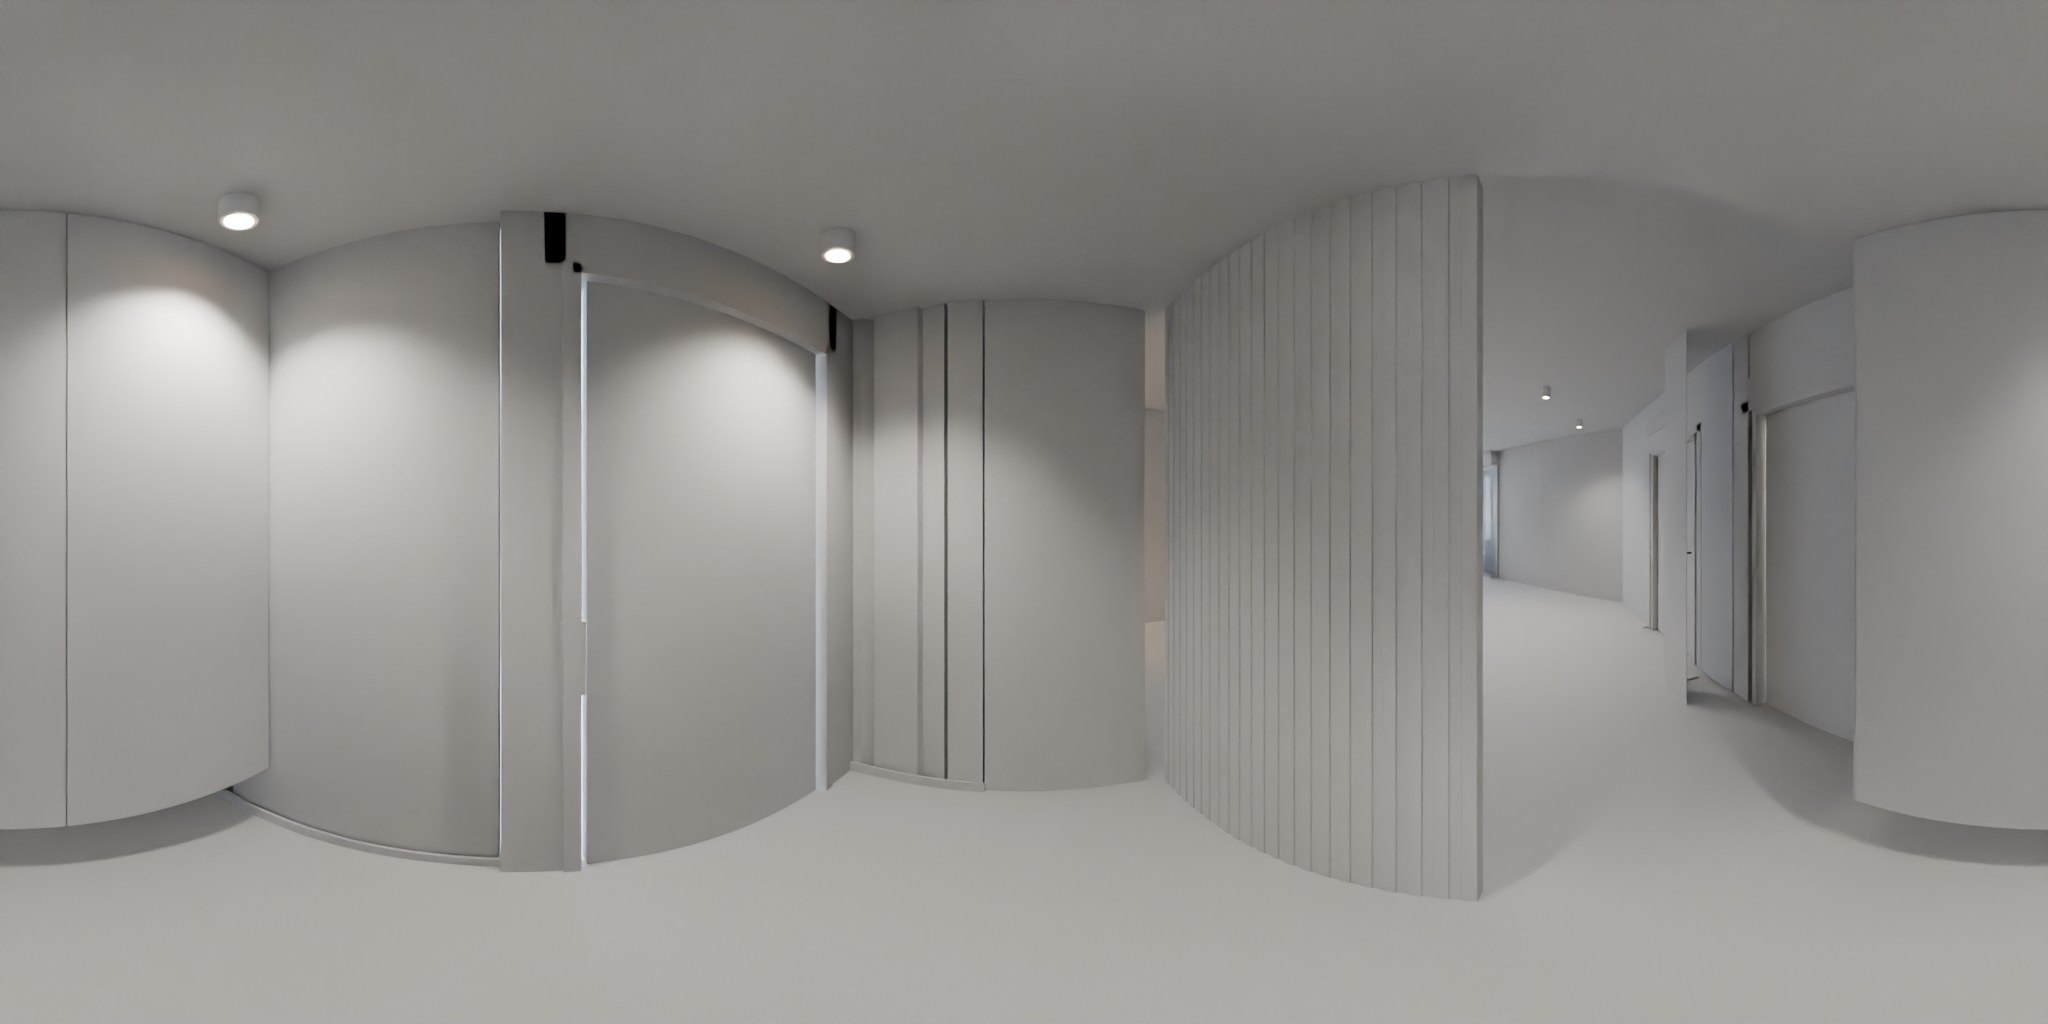
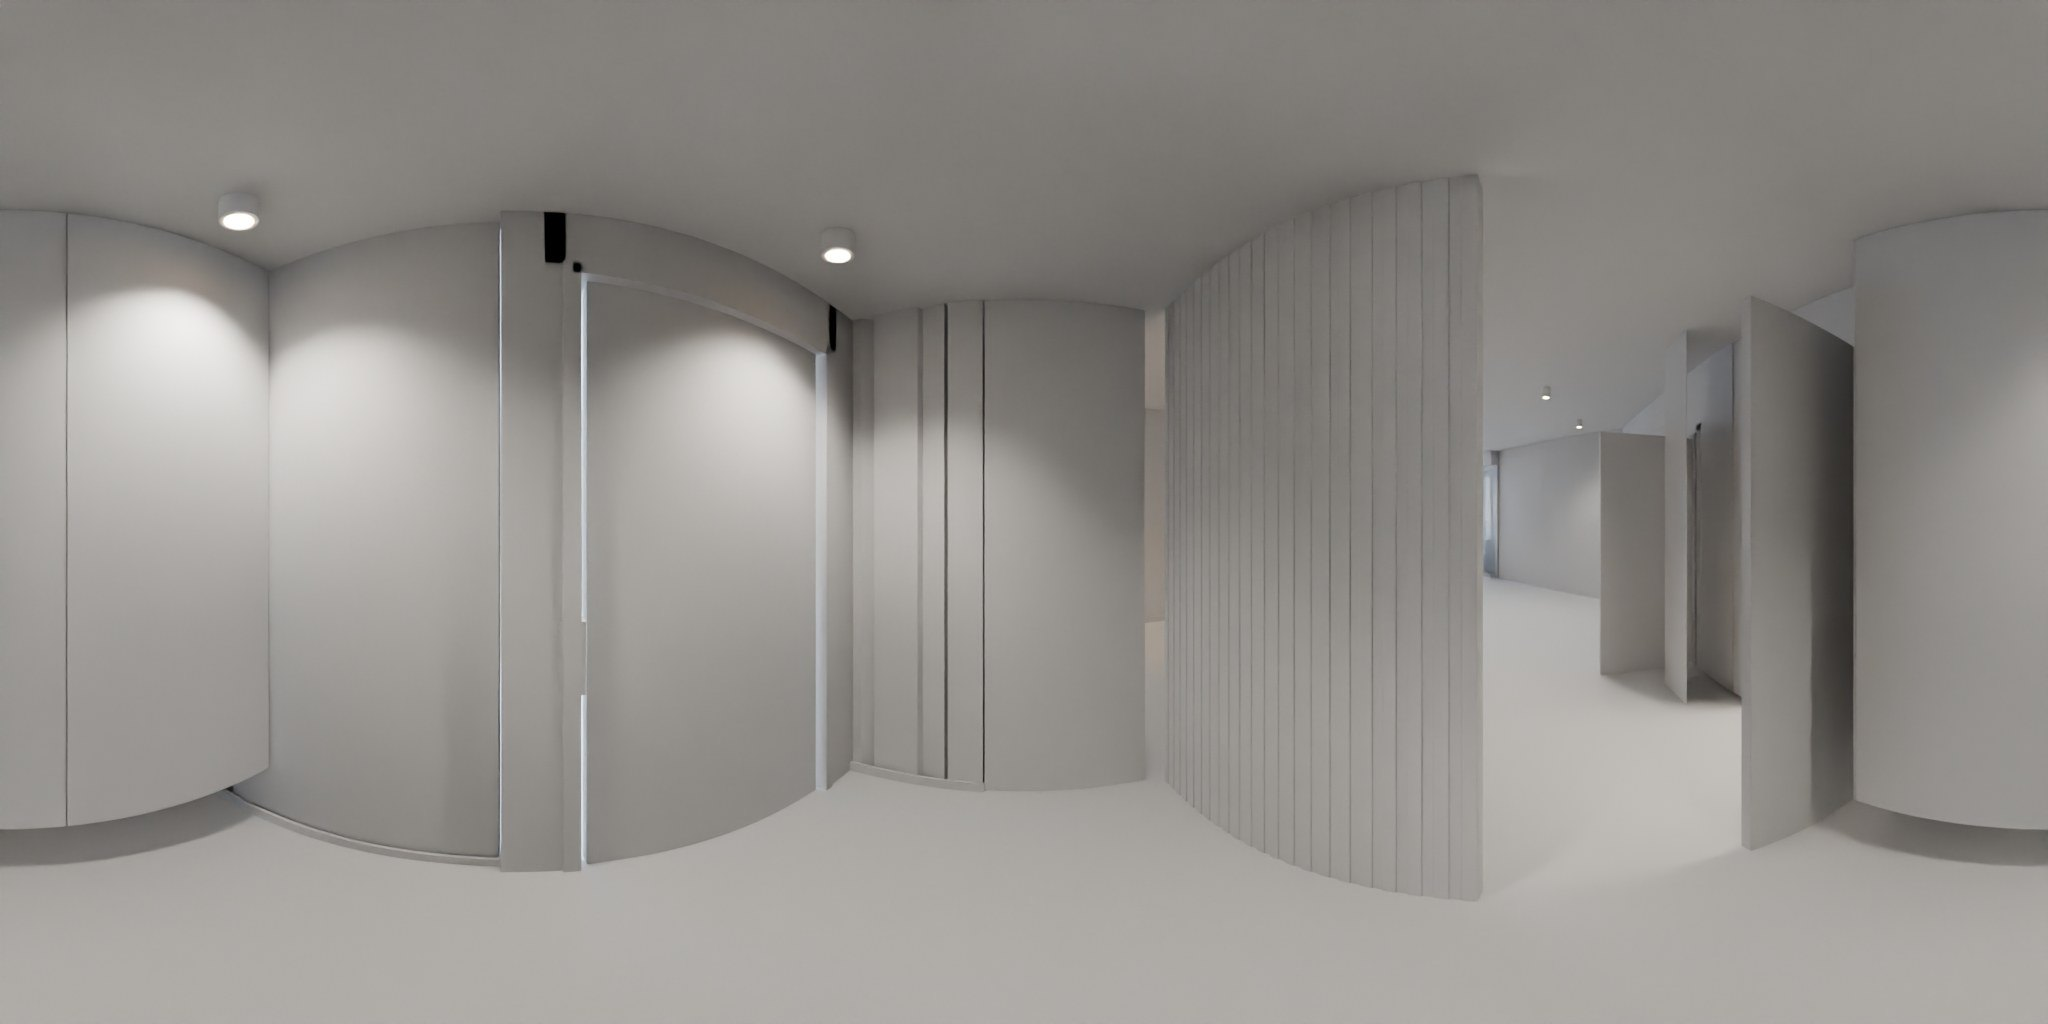
Pinea bryły v9b: otwarte drzwi, przedpokój, kropki z tras po podłodze
Claude-Session: https://claude.ai/code/session_01E8BAvgCfYVfSp1SGc6CZ9J

Changed region(s): [[0.7188, 0.3125, 0.9062, 0.8438], [0.8125, 0.1875, 0.8438, 0.25]]

diff --git a/pinea-bryly/index.html b/pinea-bryly/index.html
@@ -85,7 +85,7 @@ body{margin:0;background:var(--stage);color:var(--ink);font-family:var(--f-body)
 <div id="fade"></div>
 <script src="https://cdnjs.cloudflare.com/ajax/libs/three.js/r128/three.min.js"></script>
 <script>
-const PU={"a": [{"id": "p01", "n": 1, "n5": 1, "name": "Salon", "floor": 0, "xy": [46.85, 29.89], "hs": [{"to": "p02", "u": 0.0061, "label": "Jadalnia i kuchnia", "v": -0.546}, {"to": "p03", "u": 0.9077, "label": "Hol", "v": -0.41}, {"to": "p04", "u": 0.8138, "label": "Sypialnia", "v": -0.513}, {"to": "p05", "u": 0.8874, "label": "Łazienka", "v": -0.362}, {"to": "p06", "u": 0.42, "label": "Balkon (salon)", "v": -0.415}], "start": 0.2957}, {"id": "p02", "n": 2, "n5": 2, "name": "Jadalnia i kuchnia", "floor": 0, "xy": [18.92, 29.89], "hs": [{"to": "p01", "u": 0.5122, "label": "Salon", "v": -0.545}, {"to": "p03", "u": 0.7588, "label": "Hol", "v": -0.788}, {"to": "p05", "u": 0.7425, "label": "Łazienka", "v": -0.557}, {"to": "p04", "u": 0.6434, "label": "Sypialnia", "v": -0.437}], "start": 0.5283}, {"id": "p03", "n": 3, "n5": 3, "name": "Hol", "floor": 0, "xy": [5.41, 43.68], "hs": [{"to": "p01", "u": 0.5234, "label": "Salon", "v": -0.521}, {"to": "p02", "u": 0.4018, "label": "Jadalnia i kuchnia", "v": -0.748}, {"to": "p05", "u": 0.6106, "label": "Łazienka", "v": -0.674}, {"to": "p04", "u": 0.5583, "label": "Sypialnia", "v": -0.377}], "start": 0.4726}, {"id": "p04", "n": 4, "n5": 4, "name": "Sypialnia", "floor": 0, "xy": [66.67, 68.97], "hs": [{"to": "p01", "u": 0.0073, "label": "Salon", "v": -0.433}, {"to": "p07", "u": 0.375, "label": "Balkon (sypialnia)", "v": -1.005}], "start": 0.8564}, {"id": "p05", "n": 5, "n5": 5, "name": "Łazienka", "floor": 0, "xy": [19.37, 79.31], "hs": [{"to": "p03", "u": 0.2606, "label": "Hol", "v": -1.35}], "start": 0.8349}, {"id": "p06", "n": 6, "n5": 6, "name": "Balkon (salon)", "floor": 0, "xy": [79.28, 6.9], "hs": [{"to": "p01", "u": 0.9296, "label": "Salon", "v": -0.676}], "start": 0.3894}, {"id": "p07", "n": 7, "n5": 7, "name": "Balkon (sypialnia)", "floor": 0, "xy": [80.9, 54.6], "hs": [{"to": "p04", "u": 0.9121, "label": "Sypialnia", "v": -0.877}], "start": 0.4062}]};
+const PU={"a": [{"id": "p01", "n": 1, "n5": 1, "name": "Salon", "floor": 0, "xy": [46.85, 29.89], "hs": [{"to": "p02", "u": 0.0007, "label": "Jadalnia i kuchnia", "v": -0.741}, {"to": "p08", "u": 0.8888, "label": "Przedpokój", "v": -0.764}, {"to": "p06", "u": 0.3877, "label": "Balkon (salon)", "v": -0.761}, {"to": "p03", "u": 0.8914, "label": "Hol", "v": -0.767}], "start": 0.976}, {"id": "p02", "n": 2, "n5": 2, "name": "Jadalnia i kuchnia", "floor": 0, "xy": [18.92, 29.89], "hs": [{"to": "p01", "u": 0.4993, "label": "Salon", "v": -0.745}, {"to": "p03", "u": 0.8442, "label": "Hol", "v": -0.788}, {"to": "p08", "u": 0.6522, "label": "Przedpokój", "v": -0.783}], "start": 0.5283}, {"id": "p03", "n": 3, "n5": 3, "name": "Hol", "floor": 0, "xy": [9.91, 47.13], "hs": [{"to": "p01", "u": 0.3903, "label": "Salon", "v": -0.766}, {"to": "p02", "u": 0.3427, "label": "Jadalnia i kuchnia", "v": -0.787}, {"to": "p08", "u": 0.5263, "label": "Przedpokój", "v": -0.785}], "start": 0.5055}, {"id": "p04", "n": 4, "n5": 4, "name": "Sypialnia", "floor": 0, "xy": [66.67, 68.97], "hs": [{"to": "p08", "u": 0.0225, "label": "Przedpokój", "v": -0.768}, {"to": "p07", "u": 0.3875, "label": "Balkon (sypialnia)", "v": -0.766}], "start": 0.8564}, {"id": "p05", "n": 5, "n5": 5, "name": "Łazienka", "floor": 0, "xy": [19.37, 79.31], "hs": [{"to": "p08", "u": 0.2874, "label": "Przedpokój", "v": -0.784}], "start": 0.8349}, {"id": "p06", "n": 6, "n5": 6, "name": "Balkon (salon)", "floor": 0, "xy": [79.28, 6.9], "hs": [{"to": "p01", "u": 0.8888, "label": "Salon", "v": -0.762}], "start": 0.3894}, {"id": "p07", "n": 7, "n5": 7, "name": "Balkon (sypialnia)", "floor": 0, "xy": [80.9, 54.6], "hs": [{"to": "p04", "u": 0.8892, "label": "Sypialnia", "v": -0.763}], "start": 0.4062}, {"id": "p08", "n": 8, "n5": 8, "name": "Przedpokój", "floor": 0, "xy": [28.65, 50.57], "hs": [{"to": "p01", "u": 0.3877, "label": "Salon", "v": -0.764}, {"to": "p02", "u": 0.1517, "label": "Jadalnia i kuchnia", "v": -0.776}, {"to": "p03", "u": 0.0266, "label": "Hol", "v": -0.779}, {"to": "p05", "u": 0.8465, "label": "Łazienka", "v": -0.784}, {"to": "p04", "u": 0.6171, "label": "Sypialnia", "v": -0.759}], "start": 0.7427}]};
 let unit="a",P=PU.a;
 let byId=Object.fromEntries(P.map(p=>[p.id,p]));
 let cur='p01',variant='A',floor=0,lon=0,lat=-4,fov=75;
